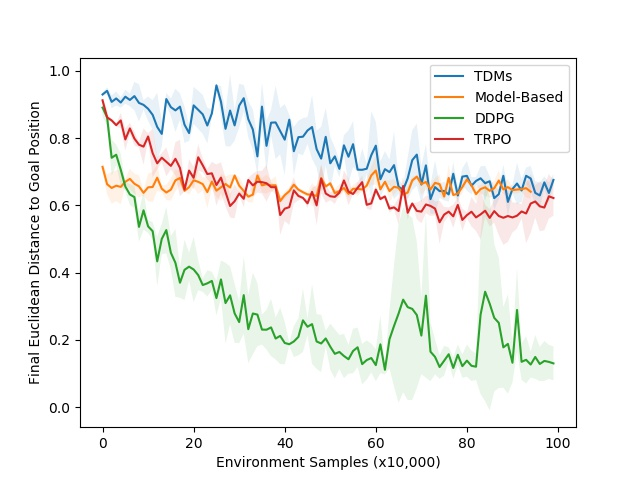
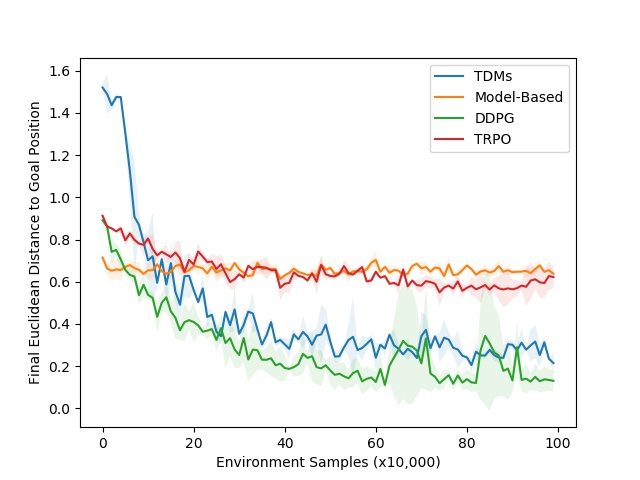
update pusher3d plot

diff --git a/experiments/state_distance/iclr2018/pusher3d_results.py b/experiments/state_distance/iclr2018/pusher3d_results.py
@@ -5,25 +5,31 @@ import numpy as np
 
 def main():
     tdm_trials = Experiment(
-        "/home/vitchyr/git/railrl/data/doodads3/12-25-tdm-ddpg-pusher3d/"
-    ).get_trials({
-        'exp_id': '3',
-    })
+        "/home/vitchyr/git/railrl/data/doodads3/12-27-pusher-reward-scale-tau-uniform-or-truncated-geo-sweep-2/",
+        criteria={
+            'ddpg_tdm_kwargs.base_kwargs.reward_scale': 100,
+            'ddpg_tdm_kwargs.tdm_kwargs.tau_sample_strategy':
+                'truncated_geometric',
+        }
+    ).get_trials()
     trpo_trials = Experiment(
-        "/home/vitchyr/git/railrl/data/doodads3/12-25-trpo-pusher-3d/"
-    ).get_trials({
-        'exp_id': '2',
-    })
+        "/home/vitchyr/git/railrl/data/doodads3/12-25-trpo-pusher-3d/",
+        criteria={
+            'exp_id': '2',
+        }
+    ).get_trials()
     mb_trials = Experiment(
-        "/home/vitchyr/git/railrl/data/doodads3/12-25-mb-dagger-pusher-3d-take2/"
-    ).get_trials({
-        'exp_id': '1',
-    })
+        "/home/vitchyr/git/railrl/data/doodads3/12-25-mb-dagger-pusher-3d-take2/",
+        criteria={
+            'exp_id': '1',
+        }
+    ).get_trials()
     ddpg_trials = Experiment(
-        "/home/vitchyr/git/railrl/data/doodads3/12-25-ddpg-pusher-3d-take2/"
-    ).get_trials({
-        'exp_id': '1',
-    })
+        "/home/vitchyr/git/railrl/data/doodads3/12-25-ddpg-pusher-3d-take2/",
+        criteria={
+            'exp_id': '1',
+        }
+    ).get_trials()
 
     MAX_ITERS = 100
 
